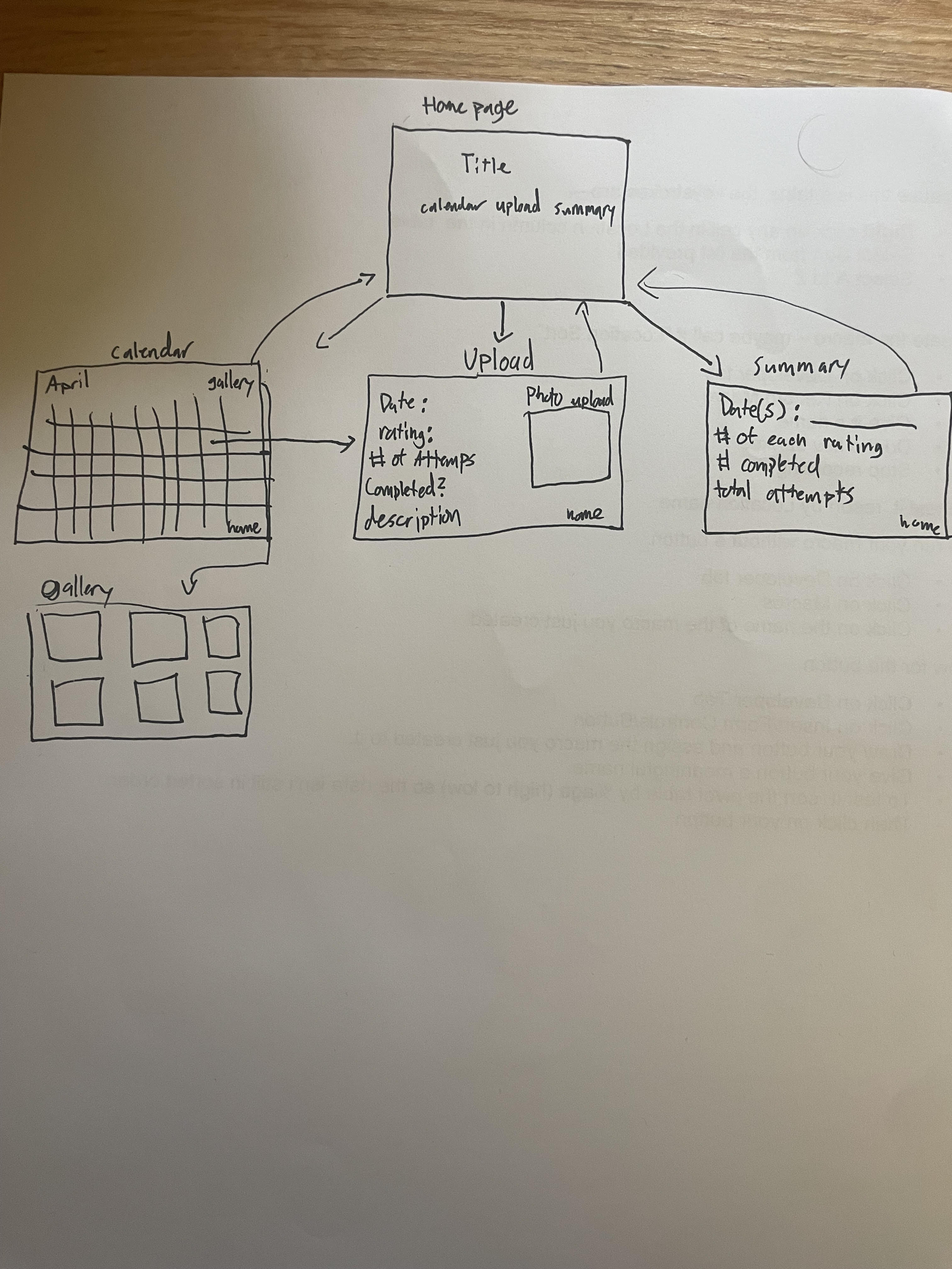
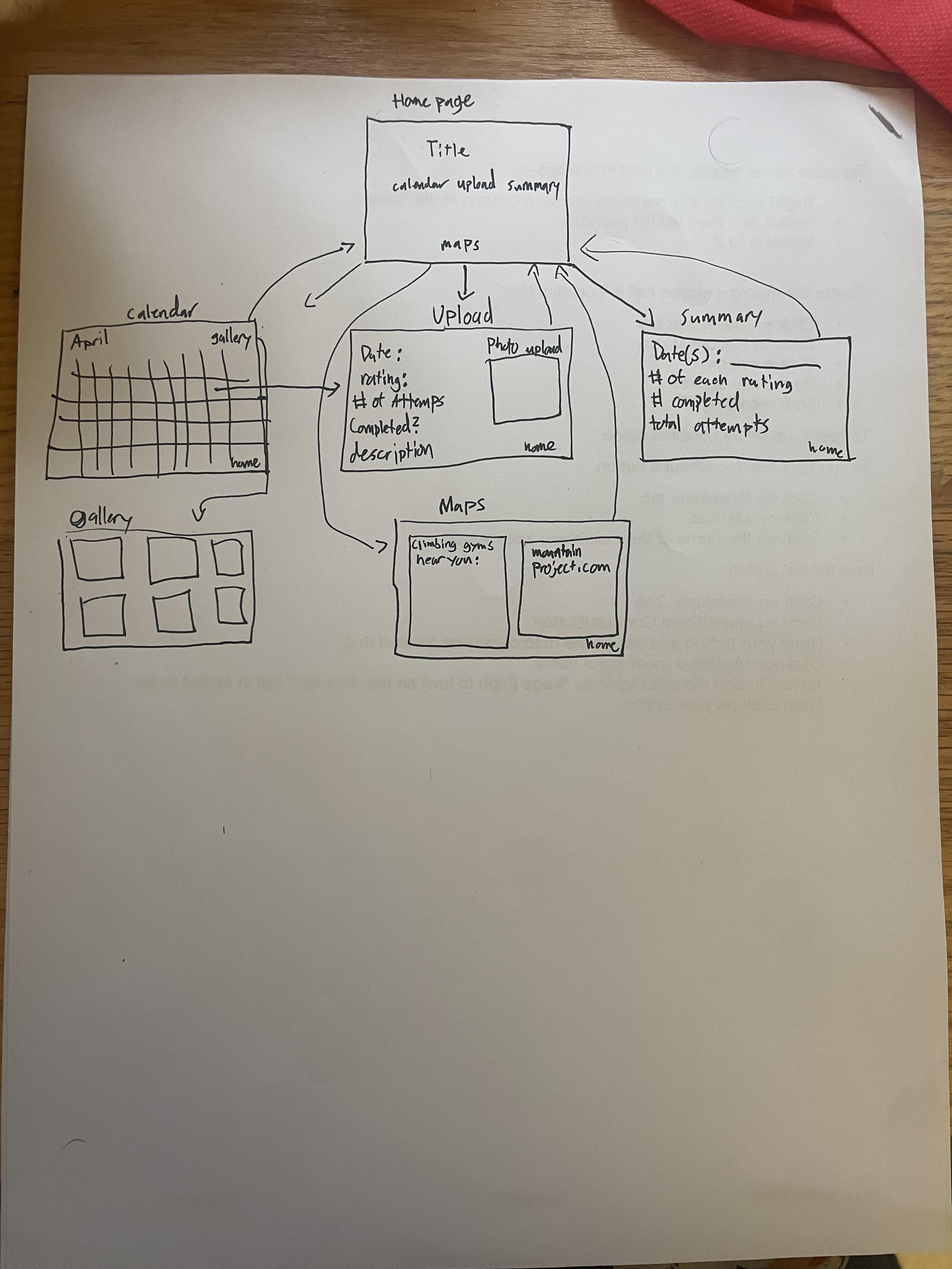
Updated Wireframe with additional Maps page

Changed region(s): [[0.0, 0.0, 1.0, 1.0], [0.0, 0.0, 0.0311, 0.0312]]

diff --git a/pm-docs/PRD.md b/pm-docs/PRD.md
@@ -18,17 +18,16 @@ List of 4–6 intended pages (e.g., homepage, about, gallery, contact)
 3. Upload page
 4. Summary Page 
 5. Gallery
+6. Maps
 
 Optional: brief notes on design/interaction (e.g., dark mode toggle)
 Summary page will have a date select, and will return totals and other stats for each date within said period
 When clicking on a day in the calendar page, it will take user to upload page
+Maps page will have a google maps link with nearby gyms on one side, and the link to mountainproject.com on the other side.
 
-Wireframe - A sketch of the homepage layout.
 
-Can be hand-drawn, or created using tools like PowerPoint, Google Slides, Figma, Moqups, etc.
-Upload as an image or PDF.
-You are encouraged (but not required) to include rough layout ideas for other key pages as well, especially if they include major features or complex structures.
-Submission (by 4/12)
+
+
 
 Create a public GitHub repository for your 3 project
 Create a folder pm-docs/ and save the PRD as PRD.md and wireframe as wireframe.png or wireframe.pdf
